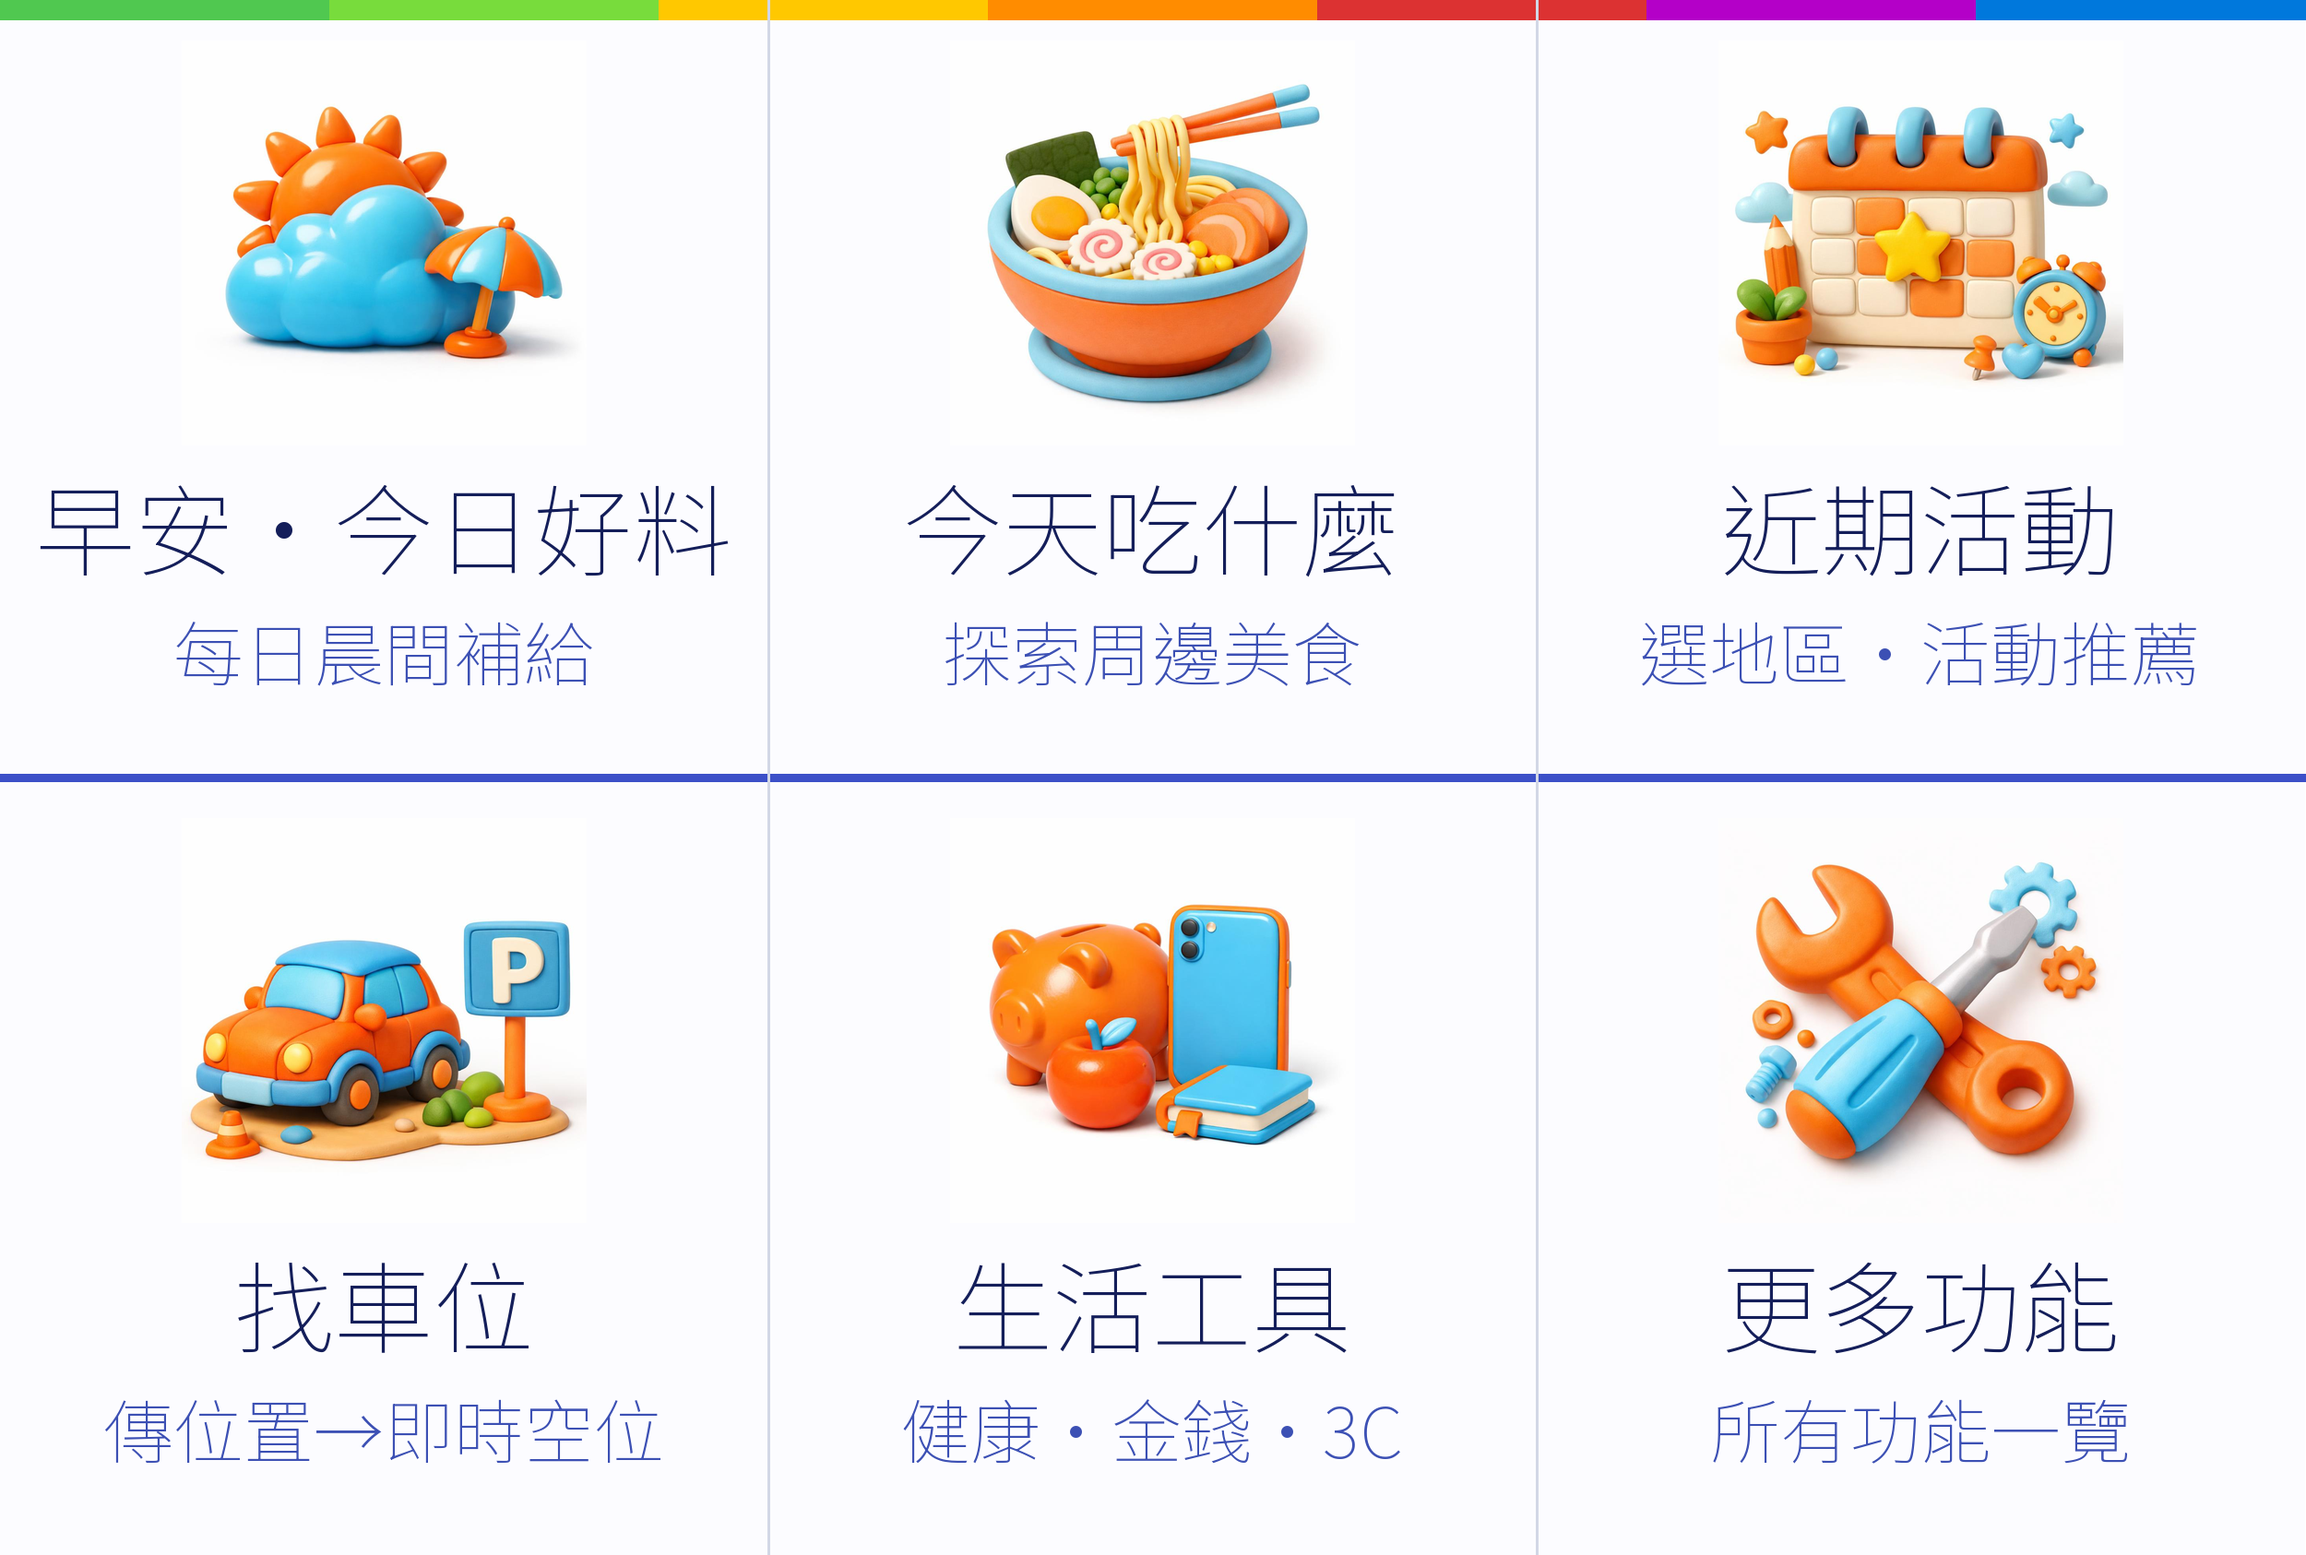
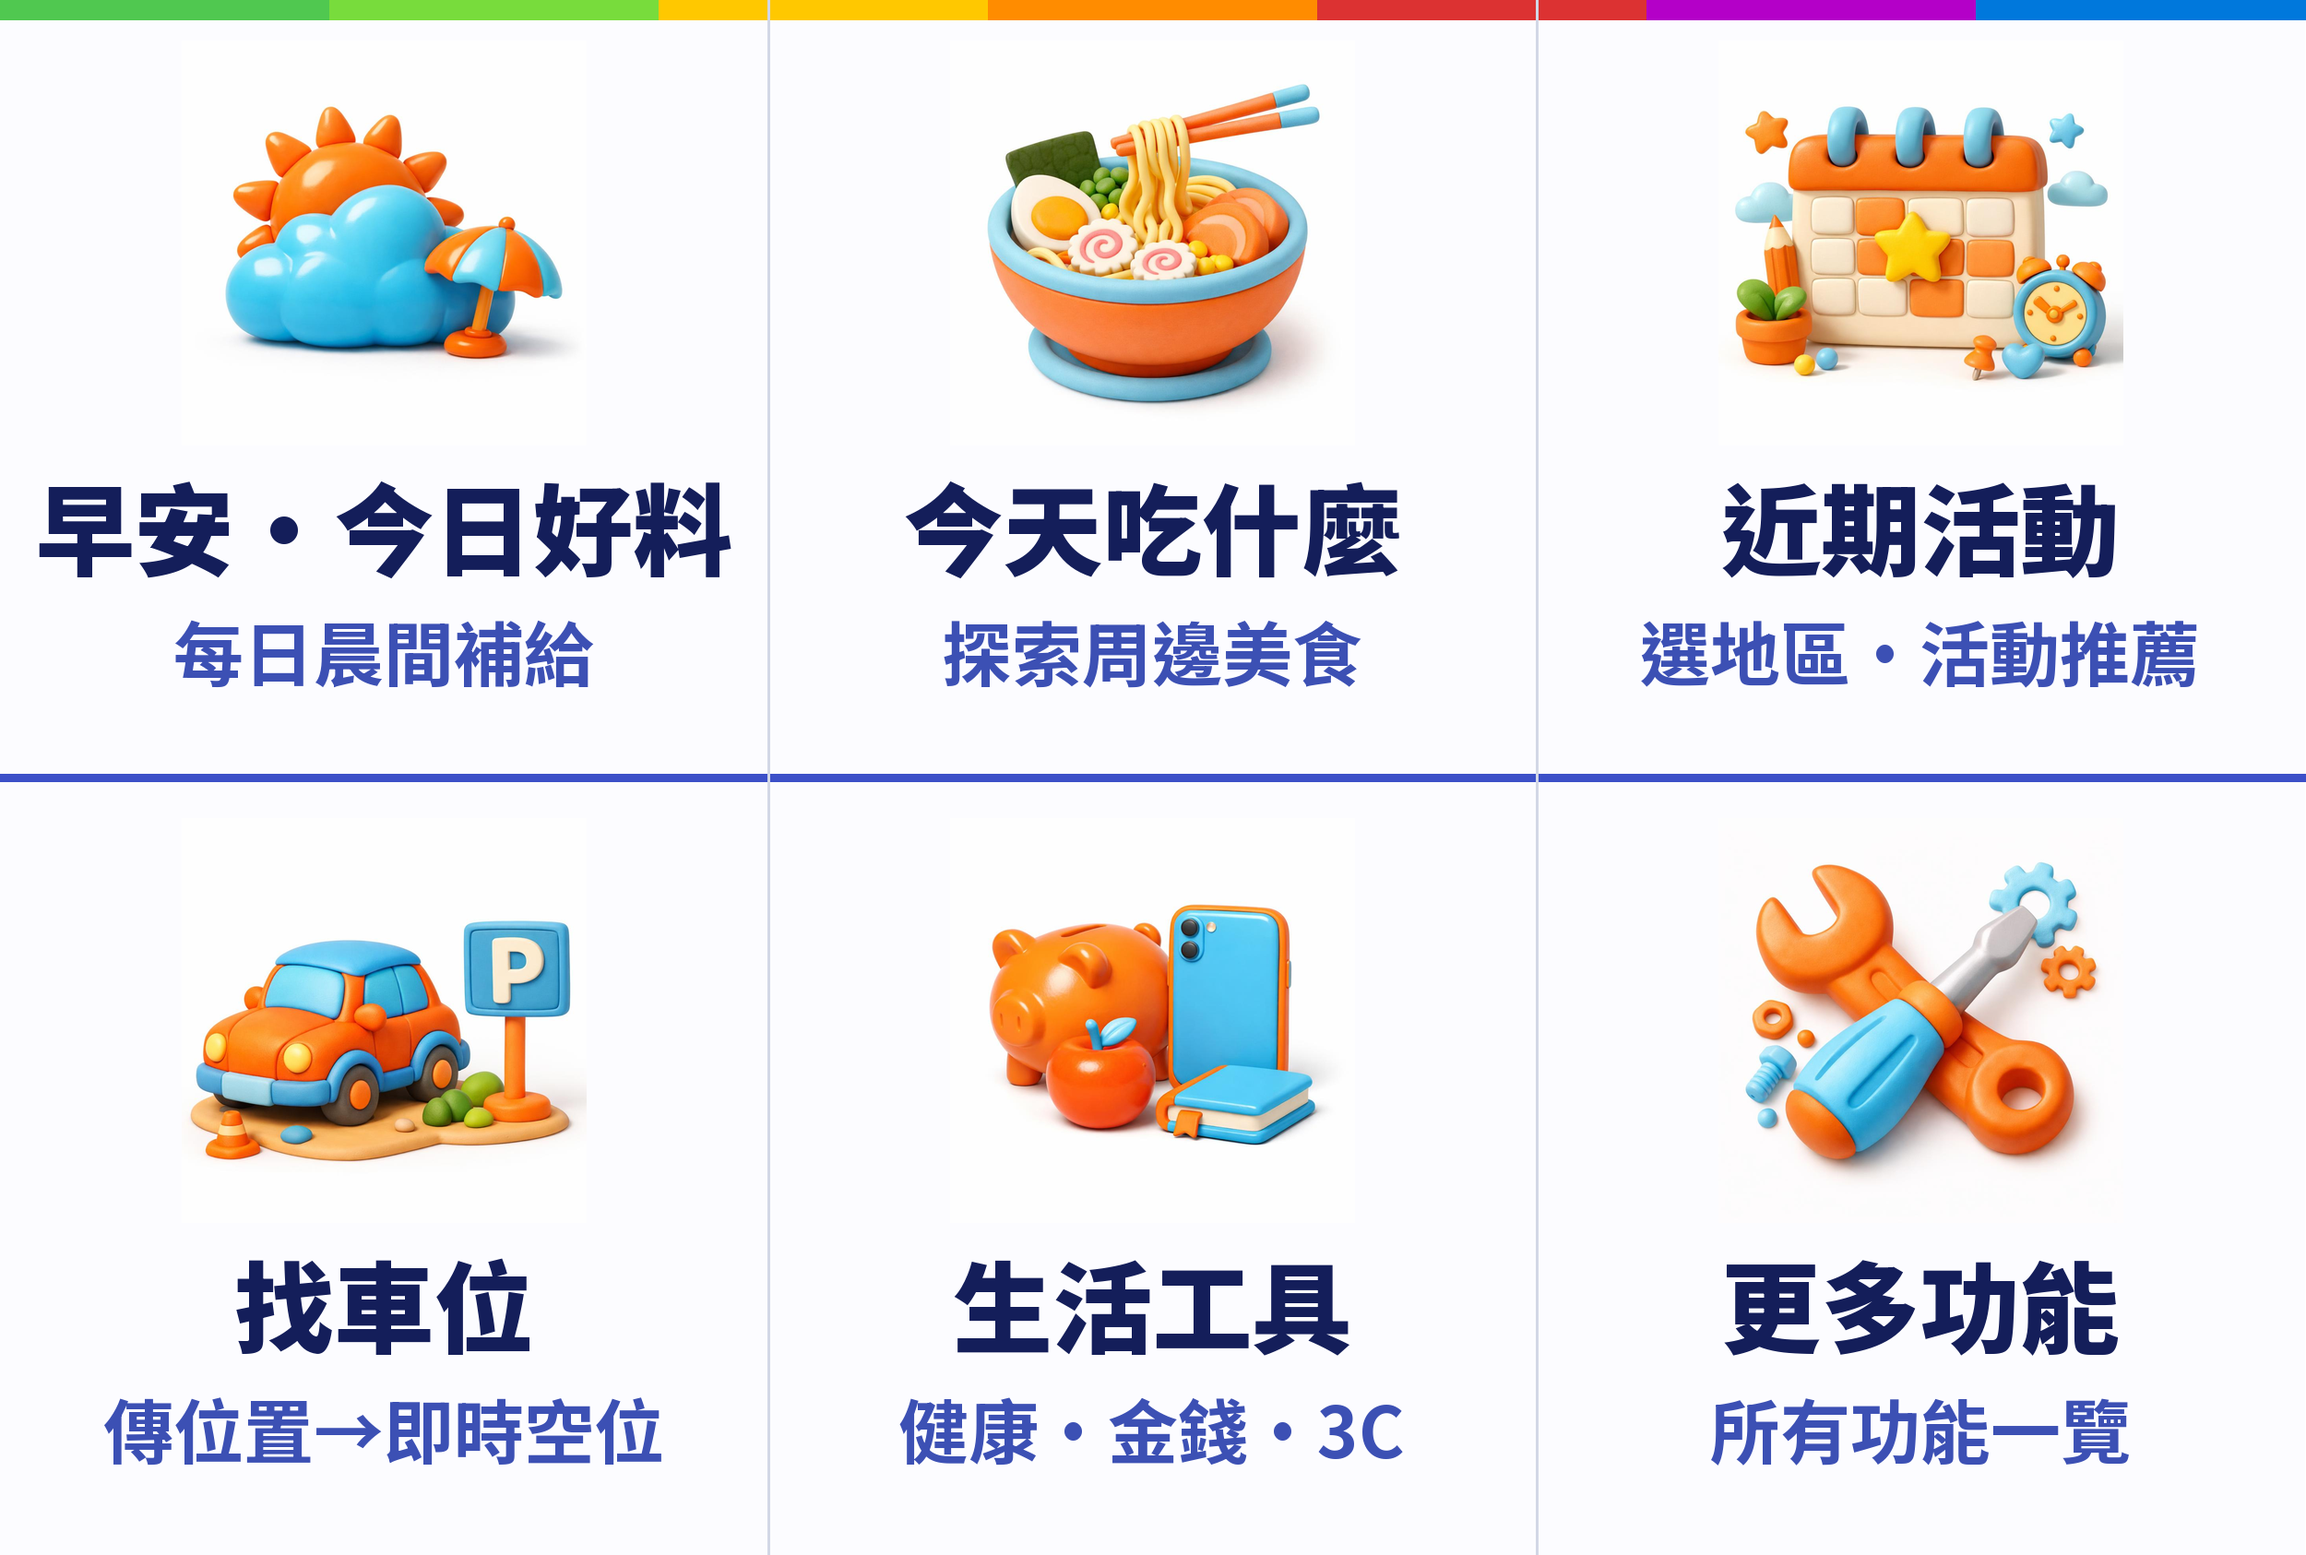
fix: Rich Menu 字體改用 Black/Bold weight

diff --git a/line-bot/generate_rich_menu.py b/line-bot/generate_rich_menu.py
@@ -24,7 +24,9 @@ SEP_ROW1_W = 8
 
 FONT    = "C:/Windows/Fonts/NotoSansTC-VF.ttf"
 f_label = ImageFont.truetype(FONT, 108)
-f_sub   = ImageFont.truetype(FONT, 76)
+f_label.set_variation_by_name("Black")
+f_sub = ImageFont.truetype(FONT, 76)
+f_sub.set_variation_by_name("Bold")
 
 CELLS = [
     ("sun",      "早安・今日好料", "每日晨間補給"),
@@ -170,7 +172,7 @@ def upload(img_path: Path) -> None:
             data=b"", method="POST", headers=h,
         ), timeout=10
     ).close()
-    print("set as default ✓")
+    print("set as default OK")
 
     # 4. 刪舊的
     with urllib.request.urlopen(
